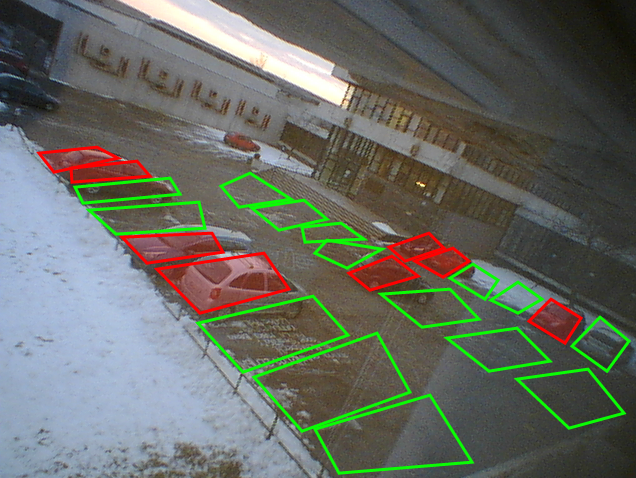
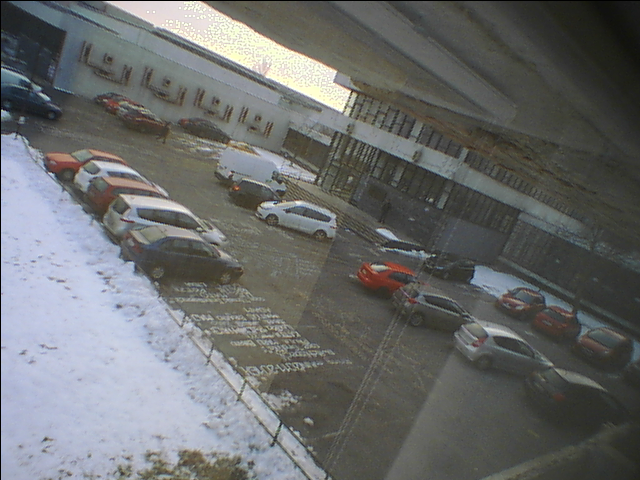
loading live image

diff --git a/configapp/static/js/live.js b/configapp/static/js/live.js
@@ -1,0 +1,53 @@
+function Point(x, y)
+{
+    this.x = x;
+    this.y = y;
+}
+
+function Live()
+{
+    this.canvas = document.getElementById('livecanvas');
+    this.ctx = this.canvas.getContext("2d");
+    this.rect = this.canvas.getBoundingClientRect();
+    this.polygons = [];
+    
+    this.image = new Image();
+    this.image.src = '/live/image';
+    var _this = this;
+    this.image.onload = function() {
+        _this.redraw();
+    };
+}
+
+Live.prototype.redraw = function() {
+    if (this.image !== null) {
+        this.ctx.clearRect(0, 0, this.canvas.width, this.canvas.height);
+        this.ctx.drawImage(this.image, 0, 0);
+        //this.draw_polygons();
+    }
+}
+
+Labeler.prototype.draw_polygons = function() {
+    for (var i = 0; i < this.polygons.length; i++) {
+        this.draw_polygon(this.polygons[i][0], this.occupies[i]);
+    }
+}
+
+Live.prototype.load_polygons = function(str) {
+    // TODO: change this to load polygons along with their occupation
+    try {
+        var obj = JSON.parse(str)['spots'];
+        var tmp = [];
+        for (var i = 0; i < obj.length; i++) {
+            tmp.push([[]]);
+            for (var j = 0; j < obj[i][0].length; j++) {
+                tmp[i][0].push(new Point(obj[i][0][j][0], obj[i][0][j][1]));
+            }
+            tmp[i].push(obj[i][1]);
+        }
+        this.polygons = tmp;
+        this.redraw();
+    } catch(err) {
+        alert('Not a valid json.');
+    }
+}

diff --git a/configapp/templates/live.html b/configapp/templates/live.html
@@ -3,10 +3,26 @@
 
 {% block title %}Live{% endblock %}
 
+{% block script %}
+  <script src="{{ url_for('static', filename='js/live.js') }}"></script>
+  <script type="text/javascript">
+
+    $(document).ready(function () {
+
+        var live = new Live();
+        
+        //labeler.load_polygons({{ prediction }});
+    });
+  </script>
+{% endblock %}
+
 {% block content %}
   <div id="labeler-header">
     <h1>Current prediction</h1>
     <br> <br>
-    <img src="{{ url_for('data_image', filename='live.png') }}">
+    <!--img src="{{ url_for('data_image', filename='live.png') }}"-->
+    <canvas id="livecanvas" width="640" height="480">
+      Your browser does not support the HTML5 canvas tag.
+    </canvas>
   </div>
 {% endblock %}

diff --git a/configapp/static/js/labeler.js b/configapp/static/js/labeler.js
@@ -24,8 +24,8 @@ Labeler.prototype.mouse_y = function(y) {
 }
 
 Labeler.prototype.change_image = function(src) {
-    this.image = document.createElement("IMG");
-    this.image.src = '/datasetimg/' + src;
+    /*this.image = document.createElement("IMG");
+    this.image.src = '/datasetimg/' + src;*/
 
     this.src = src;
 

diff --git a/configapp/configapp.py b/configapp/configapp.py
@@ -12,6 +12,8 @@ filedir = os.path.dirname(os.path.abspath(__file__))
 directory = os.path.join(filedir, app.config['IMAGE_PATH'])
 dataset_dir = os.path.join(filedir, app.config['DATASET_PATH'])
 mask_dir = os.path.join(filedir, app.config['MASK_PATH'])
+live_image_path = os.path.join(filedir, app.config['LIVE_IMAGE_PATH'])
+live_image_name = app.config['LIVE_IMAGE_NAME']
 
 
 @app.route('/')
@@ -21,7 +23,16 @@ def index():
 
 @app.route('/live')
 def live():
-    return render_template('live.html')
+    # temporary solution, just for testing
+    prediction = os.path.join(dataset_dir, '2017-01-03', '09_00_13.json')
+    with open(prediction) as f:
+        polygons = json.load(f)
+    return render_template('live.html', prediction=json.dumps(polygons))
+    
+
+@app.route('/live/image')
+def live_image():
+    return send_from_directory(live_image_path, live_image_name)
 
 
 @app.route('/marker/mask/<path:filename>')

diff --git a/configapp/default_settings.py b/configapp/default_settings.py
@@ -12,3 +12,5 @@ IMAGE_SUFFIX = '.png'
 DATASET_PATH = '../../test_data'
 MASK_PATH = '../../masks'
 PREDICTION_PATH = '../../predictions'
+LIVE_IMAGE_PATH = 'test_images/'
+LIVE_IMAGE_NAME = 'live.png'
